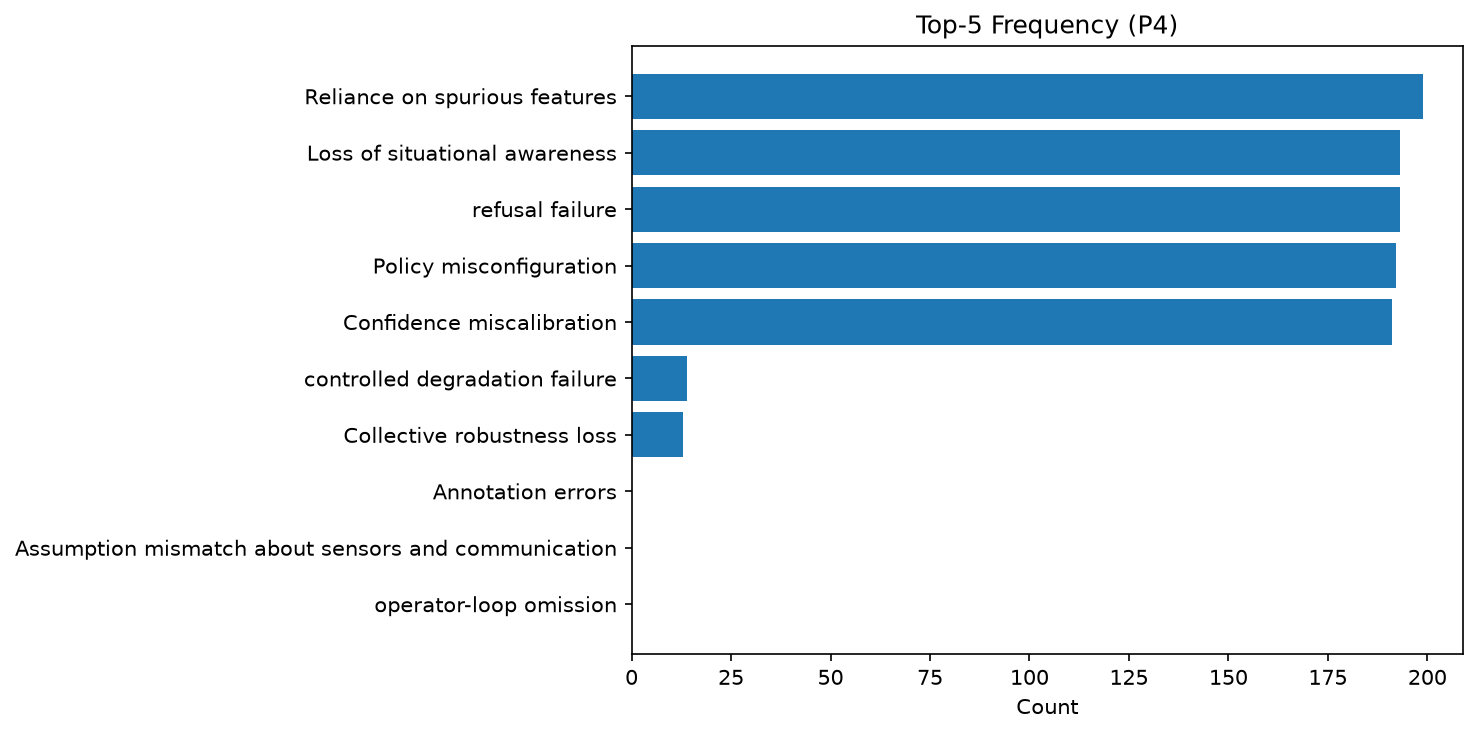
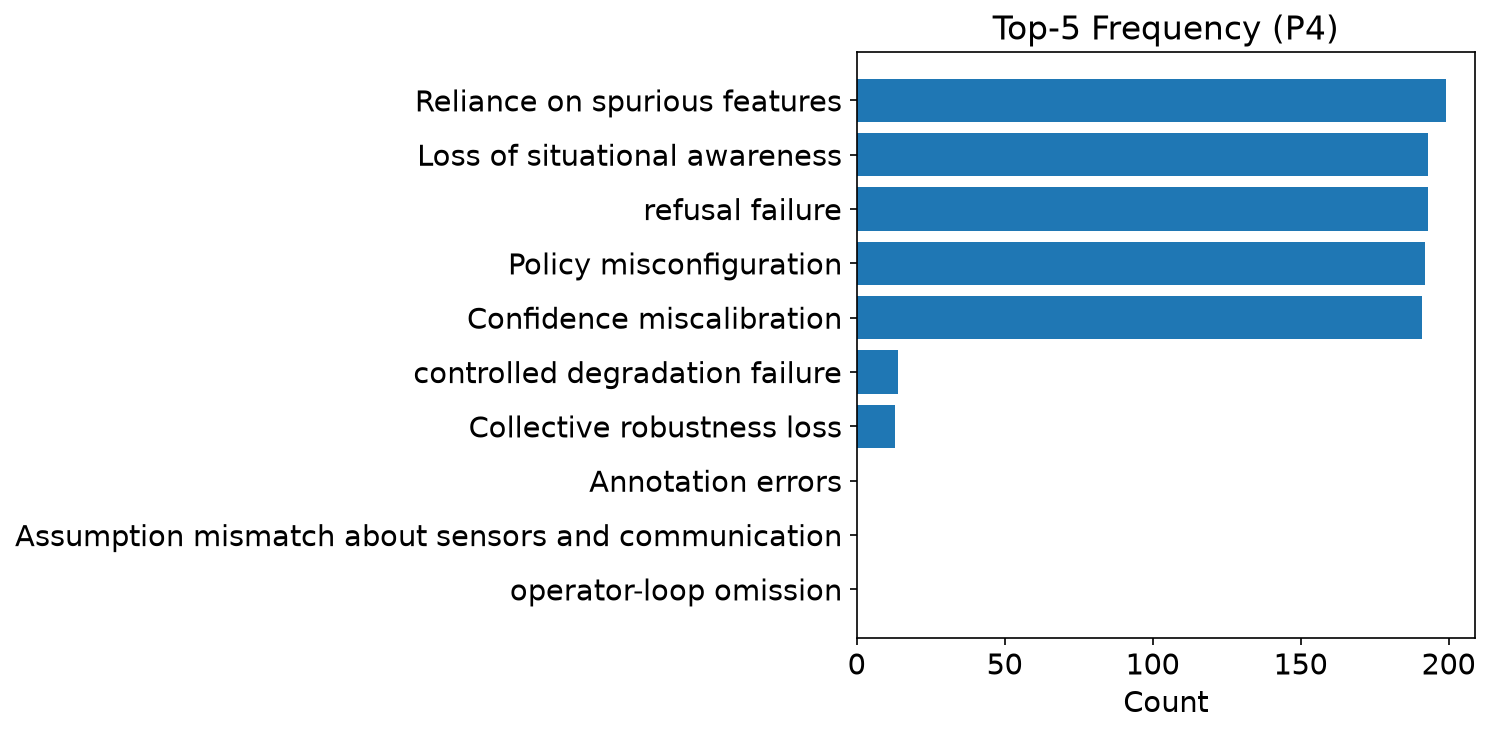
Improved diagrams look&feel

diff --git a/montecarlo/analysis.py b/montecarlo/analysis.py
@@ -11,6 +11,8 @@ from typing import Any, Dict, Iterable, List, Mapping, Sequence, Tuple
 from montecarlo.profiles import ProfileDefinition
 
 LOGGER = logging.getLogger(__name__)
+CHART_LABEL_FONT_SIZE = 14
+CHART_TITLE_FONT_SIZE = 16
 
 
 def _ordered_risks(weights: Mapping[str, float]) -> List[str]:
@@ -247,27 +249,37 @@ def _try_generate_charts(
         )
         return
 
-    # Accepted vs generated per profile
+    # Acceptance percentage per profile
     if acceptance_rows:
         labels = [row["profile_id"] for row in acceptance_rows]
-        generated = [row["generated_runs"] for row in acceptance_rows]
-        accepted = [row["accepted_runs"] for row in acceptance_rows]
+        accepted_pct = [float(row["accepted_pct"]) for row in acceptance_rows]
         x = list(range(len(labels)))
 
         fig, ax = plt.subplots(figsize=(8, 4))
-        ax.bar([i - 0.2 for i in x], generated, width=0.4, label="Generated")
-        ax.bar([i + 0.2 for i in x], accepted, width=0.4, label="Accepted")
-        ax.set_xticks(x, labels)
-        ax.set_ylabel("Runs")
-        ax.set_title("Accepted vs Generated Runs")
-        ax.legend()
+        bars = ax.bar(x, accepted_pct, width=0.6)
+        ax.set_xticks(x, labels, fontsize=CHART_LABEL_FONT_SIZE)
+        y_ticks = list(range(0, 101, 20))
+        ax.set_yticks(y_ticks, [f"{value}%" for value in y_ticks], fontsize=CHART_LABEL_FONT_SIZE)
+        ax.set_ylim(0, 105)
+        ax.set_ylabel("Accepted iterations (%)", fontsize=CHART_LABEL_FONT_SIZE)
+        ax.set_title("Accepted Iterations by Profile", fontsize=CHART_TITLE_FONT_SIZE)
+        ax.bar_label(
+            bars,
+            labels=[f"{value:.1f}%" for value in accepted_pct],
+            padding=3,
+            fontsize=CHART_LABEL_FONT_SIZE,
+        )
         fig.tight_layout()
         fig.savefig(summary_dir / "accepted_vs_generated.png", dpi=150, bbox_inches="tight")
         plt.close(fig)
 
     # Heatmap of mean risk weights by profile
     all_profiles = sorted(profile_mean_weights.keys())
-    all_risks = sorted({risk for pid in all_profiles for risk in profile_mean_weights.get(pid, {})})
+    all_risks = _sort_risks_by_summed_weights(
+        risks={risk for pid in all_profiles for risk in profile_mean_weights.get(pid, {})},
+        profile_mean_weights=profile_mean_weights,
+        profiles=all_profiles,
+    )
     if all_profiles and all_risks:
         matrix = [
             [float(profile_mean_weights[profile_id].get(risk, 0.0)) for profile_id in all_profiles]
@@ -283,6 +295,7 @@ def _try_generate_charts(
             risks=all_risks,
             title="Mean Risk Weights by Profile",
             colorbar_label="Mean global weight",
+            show_grid=True,
         )
 
         for top_k in (5, 10):
@@ -310,6 +323,7 @@ def _try_generate_charts(
                 colorbar_label=f"Accepted runs in top-{top_k} (%)",
                 vmin=0.0,
                 vmax=100.0,
+                show_grid=True,
             )
 
         membership_risks, membership_matrix = _build_top_k_membership_matrix(
@@ -347,8 +361,9 @@ def _try_generate_charts(
         display_labels = _compact_risk_labels(labels)
         fig, ax = plt.subplots(figsize=(10, max(5, len(rows) * 0.5)))
         ax.barh(display_labels[::-1], values[::-1])
-        ax.set_xlabel("Count")
-        ax.set_title(f"Top-5 Frequency ({profile_id})")
+        ax.tick_params(axis="both", labelsize=CHART_LABEL_FONT_SIZE)
+        ax.set_xlabel("Count", fontsize=CHART_LABEL_FONT_SIZE)
+        ax.set_title(f"Top-5 Frequency ({profile_id})", fontsize=CHART_TITLE_FONT_SIZE)
         fig.tight_layout()
         fig.savefig(summary_dir / f"top5_frequency_{profile_id}.png", dpi=150, bbox_inches="tight")
         plt.close(fig)
@@ -372,19 +387,21 @@ def _save_risk_profile_heatmap(
     fig, ax = plt.subplots(
         figsize=(max(7, len(profiles) * 0.8), max(8, len(risks) * 0.4)),
     )
-    cmap = None
+    cmap = plt.get_cmap("viridis")
     if missing_color is not None:
-        cmap = plt.get_cmap("viridis").with_extremes(bad=missing_color)
-    image = ax.imshow(matrix, aspect="auto", vmin=vmin, vmax=vmax, cmap=cmap)
-    fig.colorbar(image, ax=ax, label=colorbar_label)
-    ax.set_xticks(range(len(profiles)), profiles)
-    ax.set_yticks(range(len(risks)), risk_labels)
+        cmap = cmap.with_extremes(bad=missing_color)
+    image = ax.imshow(matrix, aspect="equal", vmin=vmin, vmax=vmax, cmap=cmap)
+    colorbar = fig.colorbar(image, ax=ax)
+    colorbar.set_label(colorbar_label, fontsize=CHART_LABEL_FONT_SIZE)
+    colorbar.ax.tick_params(labelsize=CHART_LABEL_FONT_SIZE)
+    ax.set_xticks(range(len(profiles)), profiles, fontsize=CHART_LABEL_FONT_SIZE)
+    ax.set_yticks(range(len(risks)), risk_labels, fontsize=CHART_LABEL_FONT_SIZE)
     if show_grid:
         ax.set_xticks([index - 0.5 for index in range(len(profiles) + 1)], minor=True)
         ax.set_yticks([index - 0.5 for index in range(len(risks) + 1)], minor=True)
         ax.grid(which="minor", color="#d0d0d0", linewidth=0.6)
         ax.tick_params(which="minor", bottom=False, left=False)
-    ax.set_title(title)
+    ax.set_title(title, fontsize=CHART_TITLE_FONT_SIZE)
     fig.tight_layout()
     fig.savefig(summary_dir / filename, dpi=150, bbox_inches="tight")
     plt.close(fig)
@@ -412,6 +429,12 @@ def _build_top_k_membership_matrix(
                 seen_risks.add(risk)
                 selected_risks.append(risk)
 
+    selected_risks = _sort_risks_by_summed_weights(
+        risks=selected_risks,
+        profile_mean_weights=profile_mean_weights,
+        profiles=profiles,
+    )
+
     matrix = [
         [
             float(profile_mean_weights[profile_id][risk])
@@ -422,6 +445,23 @@ def _build_top_k_membership_matrix(
         for risk in selected_risks
     ]
     return selected_risks, matrix
+
+
+def _sort_risks_by_summed_weights(
+    risks: Iterable[str],
+    profile_mean_weights: Mapping[str, Mapping[str, float]],
+    profiles: Sequence[str],
+) -> List[str]:
+    return sorted(
+        risks,
+        key=lambda risk: (
+            -sum(
+                float(profile_mean_weights.get(profile_id, {}).get(risk, 0.0))
+                for profile_id in profiles
+            ),
+            risk,
+        ),
+    )
 
 
 def _compact_risk_labels(risks: Sequence[str]) -> List[str]:

diff --git a/tests/test_analysis.py b/tests/test_analysis.py
@@ -55,7 +55,7 @@ class TestAnalysis(unittest.TestCase):
         risks, matrix = _build_top_k_membership_matrix(
             profile_mean_weights={
                 "P1": {"R1": 0.7, "R2": 0.3},
-                "P2": {"R1": 0.2, "R2": 0.8},
+                "P2": {"R1": 0.69, "R2": 0.8},
             },
             profiles=["P1", "P2"],
             top_k=1,
